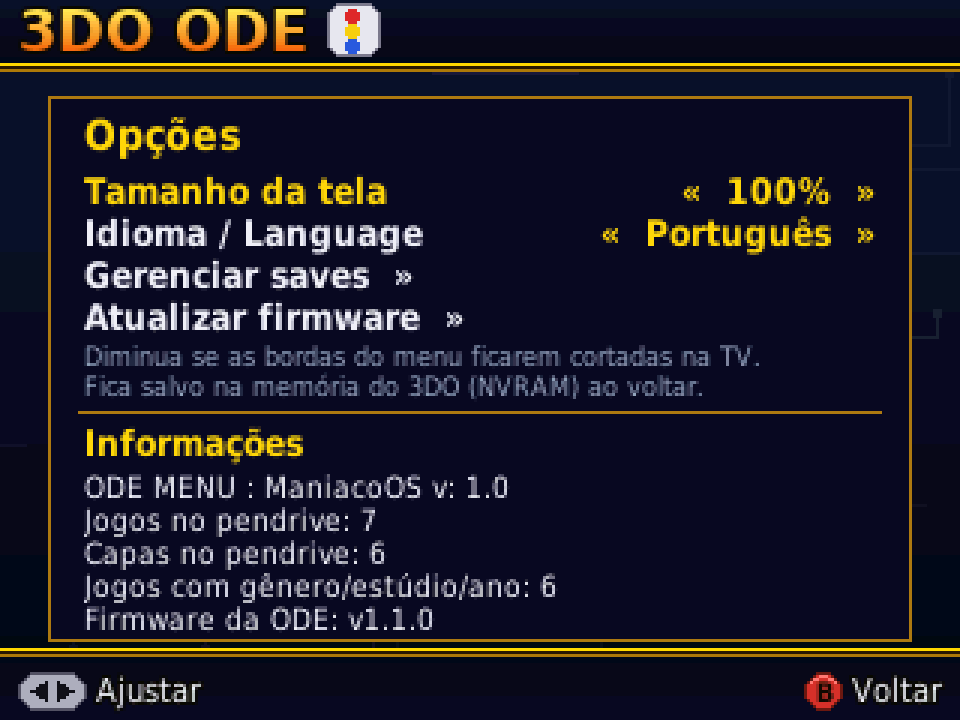
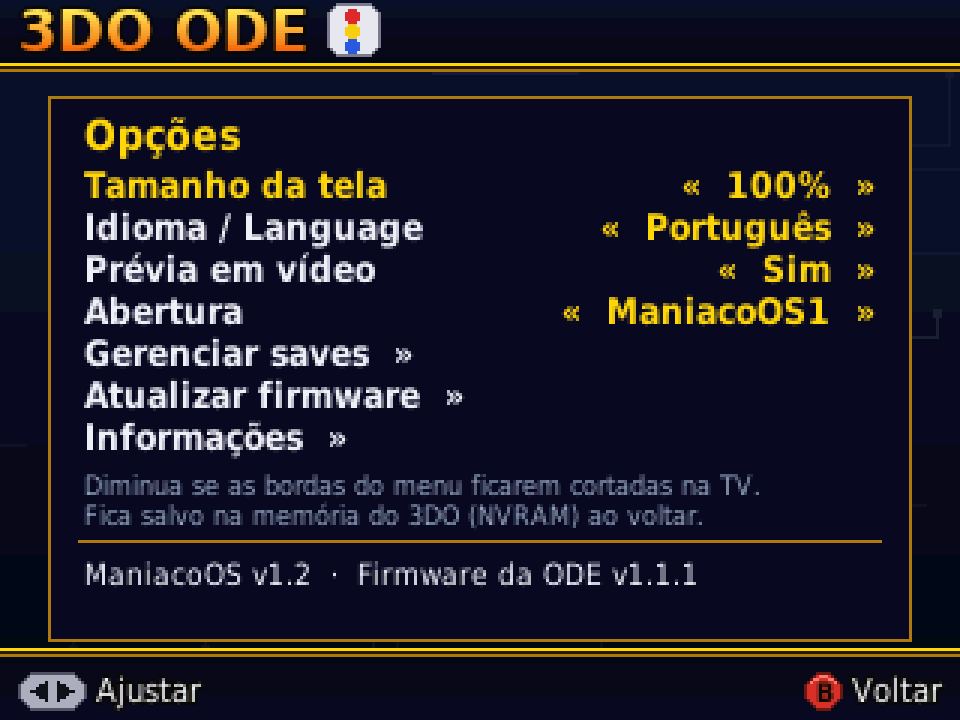
Imagens das Opções e Informações do menu v1.2 (PT e EN)
Capturas do emulador (Opera) com o menu v1.2: Opções com Prévia em vídeo e
Abertura, tela de Informações e as versões; firmware mostrada como v1.1.1.
MANUAL/MANUAL.en seção 6 com Opções + Informações; README.en com a imagem
em inglês.

Changed region(s): [[0.0625, 0.2139, 0.9062, 0.8861], [0.4688, 0.4278, 0.5, 0.4583]]

diff --git a/README.en.md b/README.en.md
@@ -12,7 +12,7 @@ A **[Maniaco Game Room](https://www.maniacogameroom.com.br/)** blog project.
 
 | | |
 |---|---|
-| ![Options](imagens/opcoes.png) | ![Manage saves](imagens/opcoes-saves.png) |
+| ![Options](imagens/opcoes-en.png) | ![Manage saves](imagens/opcoes-saves.png) |
 
 ### Menu (`boot.iso`)
 

diff --git a/MANUAL.en.md b/MANUAL.en.md
@@ -246,7 +246,9 @@ When you pick a game, the 3DO restarts and loads the disc. To go back to the men
 
 ## 6. Options
 
-![Options](imagens/opcoes.png)
+| | |
+|---|---|
+| ![Options](imagens/opcoes-en.png) | ![Information](imagens/opcoes-info-en.png) |
 
 | Item | What it does |
 |---|---|

diff --git a/MANUAL.md b/MANUAL.md
@@ -242,7 +242,9 @@ Quando você escolhe um jogo, o 3DO reinicia e carrega o disco. Para voltar ao m
 
 ## 6. Opções
 
-![Opções](imagens/opcoes.png)
+| | |
+|---|---|
+| ![Opções](imagens/opcoes.png) | ![Informações](imagens/opcoes-info.png) |
 
 | Item | O que faz |
 |---|---|
